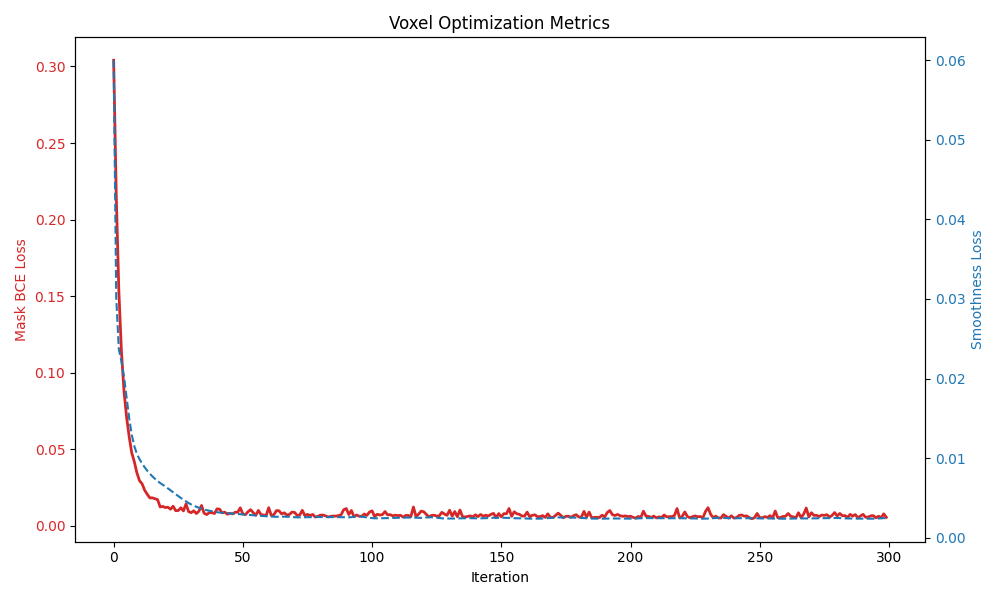
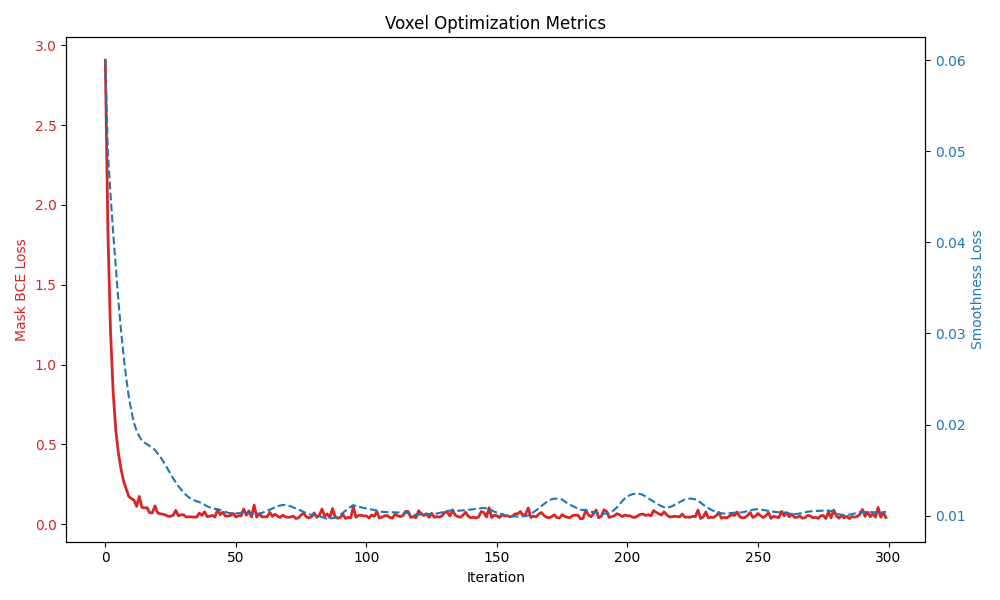
Change optimization structure to use classes, improve segmentation

diff --git a/stages/optimize.py b/stages/optimize.py
@@ -1,126 +1,142 @@
 import time
-
 import torch
+import torch.nn as nn
 import torch.nn.functional as F
+from abc import ABC, abstractmethod
 
-# Import our custom types and camera math
 from core.camera import CameraState, construct_rays
-from core.splat_io import print_gpu_memory
 from stages.segmentation import SegmentationResult
+from core.splat_io import print_gpu_memory
 
-def init_phi_grid(resolution: int, device: torch.device) -> torch.nn.Parameter:
-    """Initializes a voxel grid of the given resolution as a trainable PyTorch parameter."""
-    phi = torch.nn.Parameter(torch.randn((resolution, resolution, resolution), device=device) * 0.1 + 0.5)
-    return phi
+class PhiGrid(nn.Module, ABC):
+    """Abstract base class where the grid owns its optimization logic."""
+    def __init__(self, args, device):
+        super().__init__()
+        self.args = args
+        self.device = device
+        self.optimizer = None
 
-def sample_points_along_rays(ray_origins: torch.Tensor, ray_dirs: torch.Tensor, num_samples: int) -> torch.Tensor:
-    """Samples points along rays between near and far planes."""
-    t_vals = torch.linspace(0.1, 10.0, num_samples, device=ray_origins.device) 
-    points = ray_origins[:, None, :] + ray_dirs[:, None, :] * t_vals[None, :, None] 
-    return points
+    @abstractmethod
+    def summarize(self):
+        """Prints summary statistics about the current grid state for debugging."""
+        pass
 
-def query_phi_trilinear(phi: torch.Tensor, points: torch.Tensor, grid_center: torch.Tensor, grid_radius: float) -> torch.Tensor:
-    """Queries the voxel grid at 3D points using trilinear interpolation."""
-    center = grid_center.to(points.device)
-    points_norm = (points - center) / grid_radius
-    
-    # grid_sample expects [N, C, D, H, W]
-    grid = phi[None, None, ...] 
-    N_rays, N_samples, _ = points_norm.shape
-    sampling_coords = points_norm.reshape(1, N_rays * N_samples, 1, 1, 3)
-    
-    vals = F.grid_sample(grid, sampling_coords, mode='bilinear', padding_mode='border', align_corners=True)
-    return vals.reshape(N_rays, N_samples)
+    @abstractmethod
+    def step(self, batch_views: list[int], seg_result: SegmentationResult, cams: CameraState) -> dict:
+        """Performs one optimization step, including potential subdivision or refinement."""
+        pass
 
-def dirichlet_energy(phi: torch.Tensor) -> torch.Tensor:
-    """Computes the Dirichlet energy (L2 norm of gradients) as a smoothness prior."""
-    dx = phi[1:, :, :] - phi[:-1, :, :]
-    dy = phi[:, 1:, :] - phi[:, :-1, :]
-    dz = phi[:, :, 1:] - phi[:, :, :-1]
-    
-    return (dx**2).mean() + (dy**2).mean() + (dz**2).mean()
+    @abstractmethod
+    def query(self, points: torch.Tensor, cams: CameraState) -> torch.Tensor:
+        pass
 
-def render_phi_to_image(phi: torch.Tensor, cams: CameraState, args, device: torch.device) -> torch.Tensor:
-    """Renders the phi grid as an image (masks) using volume rendering."""
-    renderings = []
-    for i in range(len(cams.viewmats)):
-        ray_origins, ray_dirs = construct_rays(cams.viewmats[i], cams.Ks[i], args.height, args.width, device)
-        points = sample_points_along_rays(ray_origins, ray_dirs, num_samples=args.num_test_samples) 
-        phi_vals = query_phi_trilinear(phi, points, cams.target_center, cams.grid_radius)
-        alpha = torch.sigmoid(-args.sharpness * phi_vals)
-        mask = 1.0 - torch.prod(1.0 - alpha, dim=-1)
-        renderings.append(mask.reshape(args.height, args.width))
-    return torch.stack(renderings)
+    def render_mask(self, view_idx: int, cams: CameraState, num_samples: int) -> torch.Tensor:
+        """Shared volumetric rendering logic used by all child classes."""
+        ray_origins, ray_dirs = construct_rays(
+            cams.viewmats[view_idx], cams.Ks[view_idx], 
+            self.args.height, self.args.width, self.device
+        )
+        t_vals = torch.linspace(0.1, 10.0, num_samples, device=self.device) 
+        points = ray_origins[:, None, :] + ray_dirs[:, None, :] * t_vals[None, :, None] 
+        
+        phi_vals = self.query(points, cams)
+        alpha = torch.sigmoid(-self.args.sharpness * phi_vals)
+        return 1.0 - torch.prod(1.0 - alpha, dim=-1)
 
-def optimize_voxel_grid(seg_result: SegmentationResult, cams: CameraState, args, device: torch.device) -> torch.Tensor:
-    """
-    The main training loop. Casts rays through the grid, compares the rendered
-    opacities against the SAM 2 masks, and updates the voxel weights.
-    """
-    print("Initializing voxel grid and optimizer...")
-    phi = init_phi_grid(args.grid_resolution, device)
-    optimizer = torch.optim.Adam([phi], lr=args.lr)
+class DenseGrid(PhiGrid):
+    """Standard fixed-resolution grid."""
+    def __init__(self, args, device):
+        super().__init__(args, device)
+        res = args.grid_resolution
+        self.phi = nn.Parameter(torch.randn((res, res, res), device=device) * 0.1 + 0.5)
+        self.optimizer = torch.optim.Adam([self.phi], lr=args.lr)
 
-    print(f"Starting optimization for {args.num_iters} iterations...")
+    def summarize(self):
+        phi_min = self.phi.min().item()
+        phi_max = self.phi.max().item()
+        phi_mean = self.phi.mean().item()
+        phi_median = torch.median(self.phi).item()
+        phi_midrange = (phi_min + phi_max) / 2.0
+        print(f"Phi min/max/avg/med/mid: [{phi_min:.4f}, {phi_max:.4f}, {phi_mean:.4f}, {phi_median:.4f}, {phi_midrange:.4f}]")
 
-    history = {'total_loss': [], 'mask_loss': [], 'smooth_loss': [], 'time': []}
-    
-    start_time = time.time()
-    for iter in range(args.num_iters):
-        total_loss = 0.0
+    def query(self, points, cams):
+        points_norm = (points - cams.target_center) / cams.grid_radius
+        grid = self.phi[None, None, ...] 
+        N_rays, N_samples = points.shape[0], points.shape[1]
+        sampling_coords = points_norm.reshape(1, N_rays * N_samples, 1, 1, 3)
+        vals = F.grid_sample(grid, sampling_coords, mode='bilinear', padding_mode='border', align_corners=True)
+        return vals.reshape(N_rays, N_samples)
+
+    def step(self, batch_indices, seg_result, cams):
+        self.optimizer.zero_grad()
         total_mask_loss = 0.0
+        
+        for idx in batch_indices:
+            pred_mask = self.render_mask(idx, cams, self.args.num_samples)
+            target = torch.from_numpy(seg_result.masks[idx]).float().to(self.device).view(-1)
+            
+            # Loss calculation
+            loss = F.binary_cross_entropy(pred_mask, target) / len(batch_indices)
+            loss.backward()
+            total_mask_loss += loss.item()
 
-        # Stochastic batching
+        # Regularization
+        dx = self.phi[1:, :, :] - self.phi[:-1, :, :]
+        dy = self.phi[:, 1:, :] - self.phi[:, :-1, :]
+        dz = self.phi[:, :, 1:] - self.phi[:, :, :-1]
+        smooth_loss = self.args.beta * ((dx**2).mean() + (dy**2).mean() + (dz**2).mean())
+        smooth_loss.backward()
+
+        self.optimizer.step()
+        return {"mask_loss": total_mask_loss, "smooth_loss": smooth_loss}
+
+class SparseAdaptiveGrid(PhiGrid):
+    """Adaptive grid that handles subdivision logic."""
+    def __init__(self, args, device):
+        super().__init__(args, device)
+        # Initialize fvdb structure here...
+        self.current_iteration = 0
+
+    def query(self, points, cams):
+        # fvdb-specific lookup
+        return torch.zeros((points.shape[0], points.shape[1]), device=self.device)
+
+    def step(self, batch_indices, seg_result, cams):
+        self.current_iteration += 1
+        
+        # 1. Standard Gradient Step (similar to DenseGrid)
+        # ... logic to compute loss and update active voxels ...
+
+        # 2. Subdivision Logic
+        if self.current_iteration % 50 == 0:
+            print("Checking for subdivision triggers...")
+            # self.subdivide_high_gradient_regions()
+            # self.optimizer = update_optimizer_for_new_params()
+
+        return {"mask_loss": 0.0, "smooth_loss": 0.0}
+
+# --- UNIFIED PIPELINE ENTRY ---
+
+def optimize_voxel_grid(grid: PhiGrid, seg_result: SegmentationResult, cams: CameraState, args, device: torch.device):    
+    history = {'total_loss': [], 'mask_loss': [], 'smooth_loss': [], 'time': []}
+    start_time = time.time()
+
+    for iter in range(args.num_iters):
         batch_indices = torch.randperm(args.num_views)[:args.batch_size].tolist()
         
-        for view_idx in batch_indices:
-            # Perform volumetric rendering of the current phi grid to get predicted mask
-            ray_origins, ray_dirs = construct_rays(cams.viewmats[view_idx], cams.Ks[view_idx], args.height, args.width, device)
-            points = sample_points_along_rays(ray_origins, ray_dirs, args.num_samples)
-            phi_vals = query_phi_trilinear(phi, points, cams.target_center, cams.grid_radius)
-            alpha = torch.sigmoid(-args.sharpness * phi_vals)
-            pred_mask = 1.0 - torch.prod(1.0 - alpha, dim=-1)
+        # The grid handles EVERYTHING internally
+        metrics = grid.step(batch_indices, seg_result, cams)
 
-            # Compute BCE loss with SAM mask as target
-            target = torch.from_numpy(seg_result.masks[view_idx]).float().to(device).view(-1)
-            
-            if args.metric == "bce":
-                mask_loss = F.binary_cross_entropy(pred_mask, target)
-            elif args.metric == "mse":
-                mask_loss = F.mse_loss(pred_mask, target)
-            elif args.metric == "kl":
-                eps = 1e-7
-                p = torch.stack([pred_mask, 1 - pred_mask], dim=-1).clamp(eps, 1.0 - eps)
-                q = torch.stack([target, 1 - target], dim=-1).clamp(eps, 1.0 - eps)
-                mask_loss = F.kl_div(p.log(), q, reduction='batchmean')
+        # Logging logic
+        total_loss = metrics['mask_loss'] + metrics['smooth_loss']
+        time_elapsed = time.time() - start_time
 
-            view_loss = mask_loss / args.num_views
-            total_loss += view_loss
-            total_mask_loss += view_loss.item()
+        history['total_loss'].append(total_loss)
+        history['mask_loss'].append(metrics['mask_loss'])
+        history['smooth_loss'].append(metrics['smooth_loss'])
+        history['time'].append(time_elapsed)
 
-        # 4. Apply Regularization
-        smooth_term = args.beta * dirichlet_energy(phi)
-        total_loss += smooth_term
-
-        # 5. Backpropagate & Step
-        optimizer.zero_grad()
-        total_loss.backward()
-        optimizer.step()
-
-        # Compute information about phi
-        phi_min = phi.min().item()
-        phi_max = phi.max().item()
-        phi_mean = phi.mean().item()
-        phi_median = torch.median(phi).item()
-        phi_midrange = (phi_min + phi_max) / 2.0
-        print(f"Iter {iter+1}/{args.num_iters}: Loss={total_loss.item():.4f}, Mask={total_mask_loss:.6f}, Smooth={smooth_term.item():.6f}")
-        print(f"Phi min/max/avg/med/mid: [{phi_min:.4f}, {phi_max:.4f}, {phi_mean:.4f}, {phi_median:.4f}, {phi_midrange:.4f}]")
+        print(f"Iter {iter+1}/{args.num_iters}: Time={time_elapsed:.2f}s, Loss={total_loss:.4f}, Mask={metrics['mask_loss']:.6f}, Smooth={metrics['smooth_loss']:.6f}")        
+        grid.summarize()
         print_gpu_memory()
-        
-        history['total_loss'].append(total_loss.item())
-        history['mask_loss'].append(total_mask_loss)
-        history['smooth_loss'].append(smooth_term.item())
-        history['time'].append(time.time() - start_time)
-
-    print("Optimization complete.")
-    return phi, history
+    return history

diff --git a/pipeline.py b/pipeline.py
@@ -7,7 +7,7 @@ from core.splat_io import load_ply, print_gpu_memory
 from core.camera import CameraState, setup_camera_geometry, get_batch_Ks, get_batch_viewmats
 from stages.rendering import render_splat_views
 from stages.segmentation import generate_sam_masks
-from stages.optimize import optimize_voxel_grid, render_phi_to_image
+from stages.optimize import PhiGrid, DenseGrid, SparseAdaptiveGrid, optimize_voxel_grid
 from stages.evaluation import visualize_with_polyscope, plot_training_metrics, visualize_batch_grid
 
 if __name__ == "__main__":
@@ -33,6 +33,8 @@ if __name__ == "__main__":
     parser.add_argument("--num_test_samples", type=int, default=100, help="Number of samples per ray for test view rendering")
     parser.add_argument("--batch_size", type=int, default=4, help="Number of views to sample per optimization step")
     parser.add_argument("--metric", type=str, default="bce", choices=["bce", "mse", "kl"], help="Loss metric for optimization")
+    parser.add_argument("--grid_type", type=str, default="dense", choices=["dense", "adaptive"], help="Type of voxel grid to optimize")
+    parser.add_argument("--use_color", type=bool, default=False, help="Whether to optimize color in addition to occupancy")
     args = parser.parse_args()
 
     input_filename = os.path.splitext(os.path.basename(args.input))[0]
@@ -54,7 +56,8 @@ if __name__ == "__main__":
     rendered_images = render_splat_views(splats, cams, args)
     seg_result = generate_sam_masks(rendered_images, interior_3d, cams, args, device)
     
-    phi_grid, history = optimize_voxel_grid(seg_result, cams, args, device)
+    phi_grid = DenseGrid(args, device) if args.grid_type == "dense" else SparseAdaptiveGrid(args, device, cams)
+    history = optimize_voxel_grid(phi_grid, seg_result, cams, args, device)
 
     # --- 2. EVALUATION & VISUALIZATION ---
     print("Optimization complete. Visualizing training history...")
@@ -68,22 +71,22 @@ if __name__ == "__main__":
     test_viewmats = get_batch_viewmats(splats.means, cams.target_center, cams.cam_radius, args.num_test_views)
     
     # Bundle the new views into our structured CameraState
-    test_cams = CameraState(
-        target_center=cams.target_center,
-        target_radius=cams.target_radius,
-        cam_radius=cams.cam_radius,
-        grid_radius=cams.grid_radius,
-        viewmats=test_viewmats,
-        Ks=test_Ks
-    )
+    # test_cams = CameraState(
+    #     target_center=cams.target_center,
+    #     target_radius=cams.target_radius,
+    #     cam_radius=cams.cam_radius,
+    #     grid_radius=cams.grid_radius,
+    #     viewmats=test_viewmats,
+    #     Ks=test_Ks
+    # )
 
-    test_renders = render_splat_views(splats, test_cams, args, chunk_size=args.num_test_views)
-    phi_renders = render_phi_to_image(phi_grid, test_cams, args, device)
+    # test_renders = render_splat_views(splats, test_cams, args, chunk_size=args.num_test_views)
+    # phi_renders = render_phi_to_image(phi_grid, test_cams, args, device)
 
-    # Concat and visualize
-    original_imgs = test_renders.detach().float().clamp(0, 1).cpu().numpy()
-    phi_masks = phi_renders.detach().float().cpu().numpy()
-    phi_masks_rgb = np.repeat(phi_masks[:, :, :, None], 3, axis=-1)
+    # # Concat and visualize
+    # original_imgs = test_renders.detach().float().clamp(0, 1).cpu().numpy()
+    # phi_masks = phi_renders.detach().float().cpu().numpy()
+    # phi_masks_rgb = np.repeat(phi_masks[:, :, :, None], 3, axis=-1)
 
-    combined = np.concatenate([original_imgs, phi_masks_rgb], axis=0)
-    visualize_batch_grid(combined, num_cols=args.num_test_views)
+    # combined = np.concatenate([original_imgs, phi_masks_rgb], axis=0)
+    # visualize_batch_grid(combined, num_cols=args.num_test_views)

diff --git a/stages/evaluation.py b/stages/evaluation.py
@@ -32,16 +32,20 @@ def plot_training_metrics(history: dict, filename="training_metrics.png"):
     iters = range(len(history['total_loss']))
     fig, ax1 = plt.subplots(figsize=(10, 6))
 
+    # Convert tensor values to numpy, moving to CPU if needed
+    mask_loss_vals = [v.detach().cpu().numpy() if torch.is_tensor(v) else v for v in history['mask_loss']]
+    smooth_loss_vals = [v.detach().cpu().numpy() if torch.is_tensor(v) else v for v in history['smooth_loss']]
+
     color = 'tab:red'
     ax1.set_xlabel('Iteration')
     ax1.set_ylabel('Mask BCE Loss', color=color)
-    ax1.plot(iters, history['mask_loss'], color=color, label='Mask Loss', linewidth=2)
+    ax1.plot(iters, mask_loss_vals, color=color, label='Mask Loss', linewidth=2)
     ax1.tick_params(axis='y', labelcolor=color)
 
     ax2 = ax1.twinx()
     color = 'tab:blue'
     ax2.set_ylabel('Smoothness Loss', color=color)
-    ax2.plot(iters, history['smooth_loss'], color=color, label='Smoothness', linestyle='--')
+    ax2.plot(iters, smooth_loss_vals, color=color, label='Smoothness', linestyle='--')
     ax2.tick_params(axis='y', labelcolor=color)
 
     plt.title('Voxel Optimization Metrics')
@@ -51,8 +55,15 @@ def plot_training_metrics(history: dict, filename="training_metrics.png"):
     print(f"Metrics graph saved to {filename}")
     plt.show()
 
-def visualize_with_polyscope(masked_rgbs: list[np.ndarray], cams: CameraState, phi: torch.Tensor, args):
-    """Visualizes the optimized phi grid and camera frustums using masked RGB views."""
+def visualize_with_polyscope(masked_rgbs: list[np.ndarray], cams: CameraState, phi_grid, args):
+    """Visualizes the optimized phi grid and camera frustums using masked RGB views.
+    
+    Args:
+        masked_rgbs: List of masked RGB images from camera views
+        cams: Camera state object with view and grid information
+        phi_grid: PhiGrid object (DenseGrid, SparseAdaptiveGrid, etc.) with phi tensor
+        args: Configuration arguments
+    """
     ps.set_window_size(1920, 1080*0.75)
 
     ps.init()
@@ -61,7 +72,7 @@ def visualize_with_polyscope(masked_rgbs: list[np.ndarray], cams: CameraState, p
     # Phi Grid Registration
     bound_low = (cams.target_center - cams.grid_radius).detach().cpu().numpy()
     bound_high = (cams.target_center + cams.grid_radius).detach().cpu().numpy()
-    phi_data = phi.detach().cpu().numpy().transpose(2, 1, 0)
+    phi_data = phi_grid.phi.detach().cpu().numpy().transpose(2, 1, 0)
     
     mask = phi_data < args.iso_level
     idx = np.argwhere(mask)

diff --git a/stages/segmentation.py b/stages/segmentation.py
@@ -6,6 +6,7 @@ import numpy as np
 from PIL import Image
 from dataclasses import dataclass
 from sam2.build_sam import build_sam2_video_predictor
+import torch.nn.functional as F
 
 # Import the camera state from your new core module
 from core.camera import CameraState, project_points
@@ -50,13 +51,14 @@ def generate_sam_masks(rendered_images: torch.Tensor, interior_3d: torch.Tensor,
         # Propagate masks across all frames
         print("Propagating masks...")
         total_frames = len(rendered_images)
-        final_masks = [None] * total_frames 
+
+        _, H, W, _ = rendered_images.shape
+        final_masks = torch.zeros((total_frames, H, W), device=device, dtype=torch.bool)
 
         for out_frame_idx, _, out_mask_logits in predictor.propagate_in_video(inference_state):
-            mask = (out_mask_logits[0, 0] > 0.0).cpu().numpy()
-            final_masks[out_frame_idx] = mask
+            final_masks[out_frame_idx] = out_mask_logits[0, 0] > 0.0
 
-        target_masks = np.stack(final_masks)
+        target_masks = final_masks.cpu().numpy()
 
     # Generate blended images (red tint) for Polyscope visualization later
     original_renders = rendered_images.detach().cpu().numpy()
